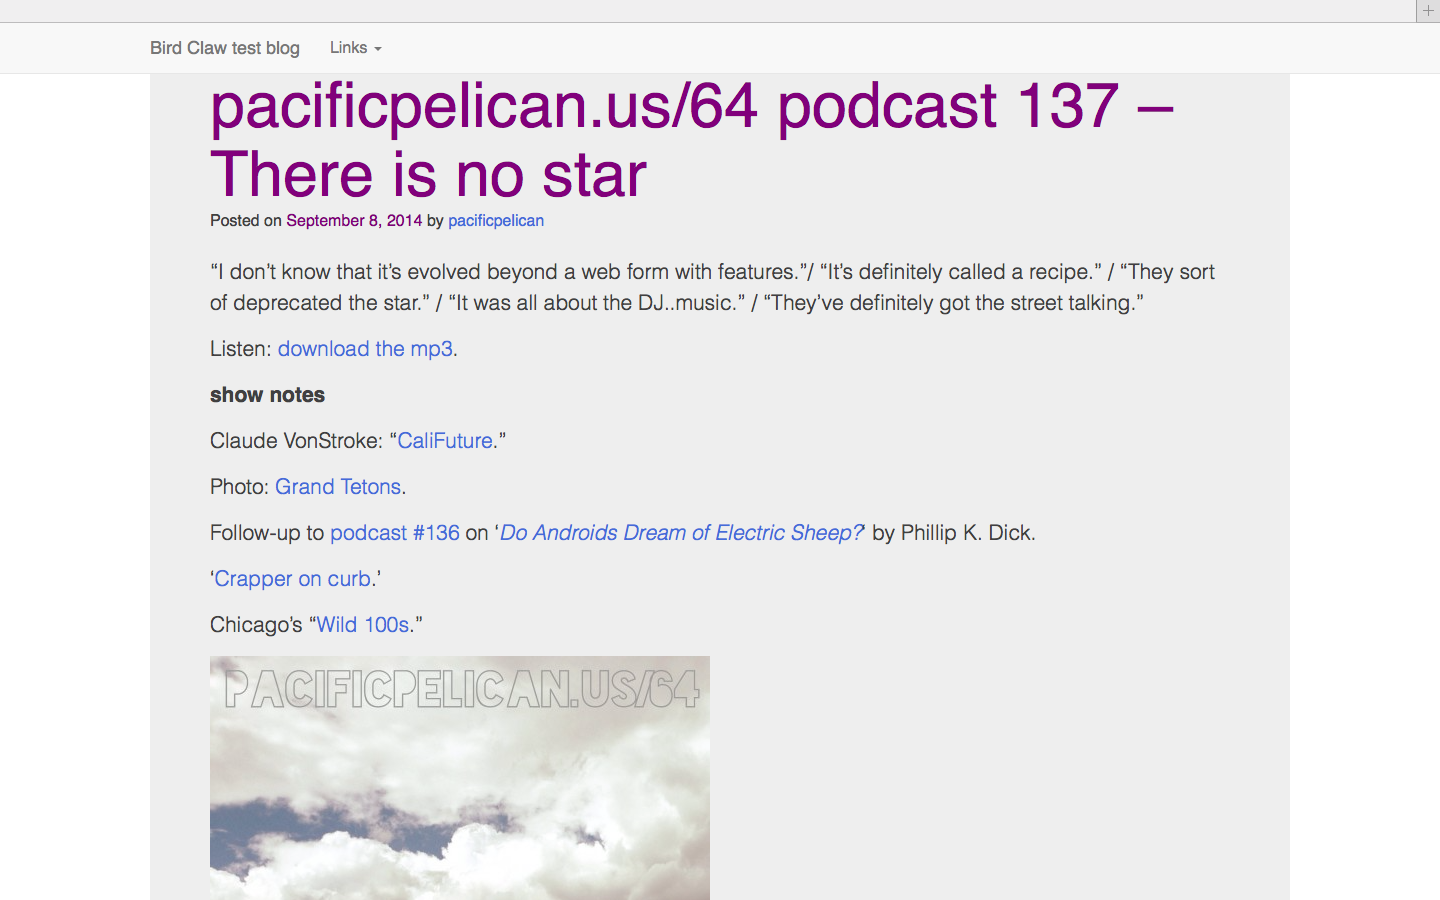
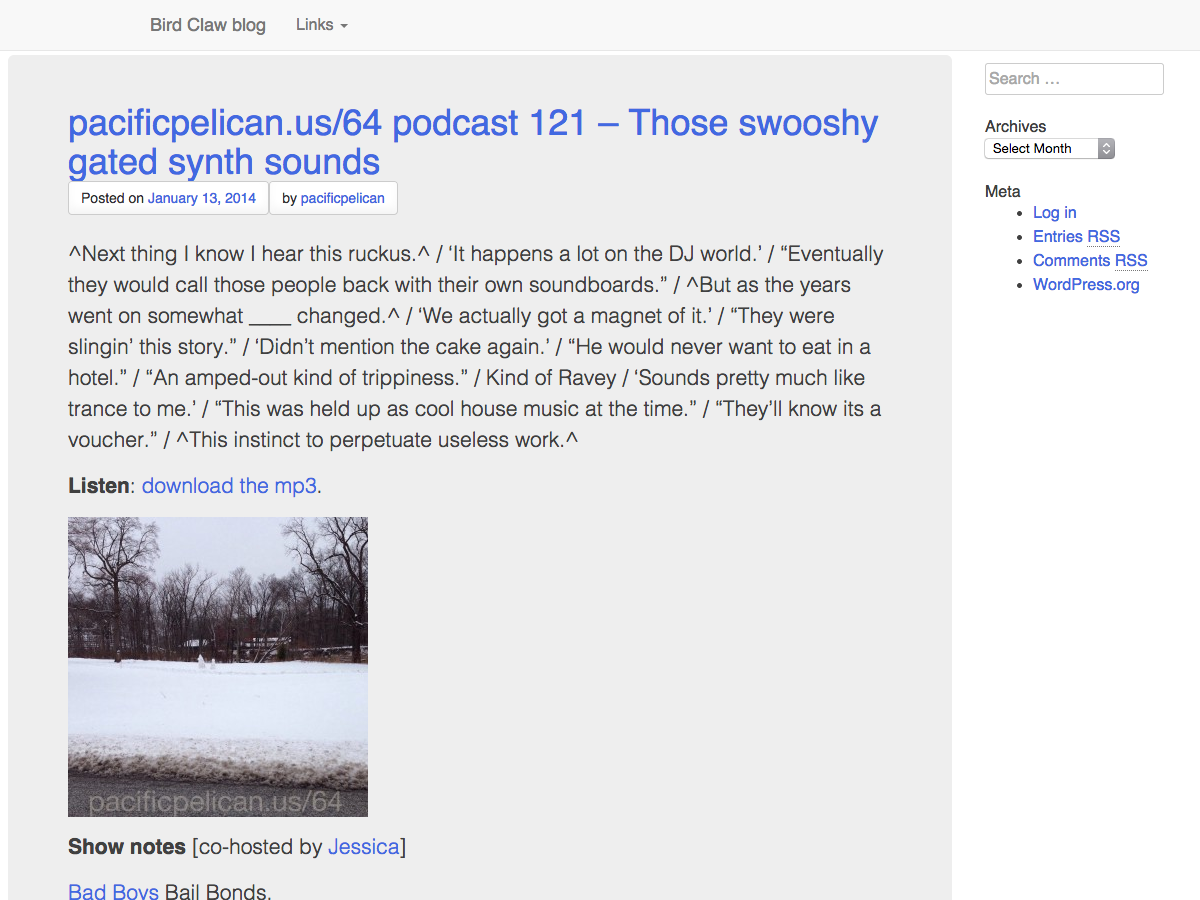
updated screenshot & bug fixes
new esc_url function used to get blog location

diff --git a/style.css b/style.css
@@ -4,7 +4,7 @@ Theme URI: http://pacificpelican.us/hallerlaketheme/
 Author: Daniel J. McKeown
 Author URI: http://djmcloud.com/
 Description: The 2014 WP theme from LoveBirdsConsulting.com
-Version: 0.5.5
+Version: 0.5.6
 License: GNU General Public License version 2 (or later)
 License URI: http://www.gnu.org/licenses/gpl-2.0.html
 Text Domain: haller_lake_s

diff --git a/header.php b/header.php
@@ -20,12 +20,12 @@
     <link rel="icon" href="../../../favicon.ico">
 
     <!-- Bootstrap core CSS -->
-    <link rel="stylesheet" href="<?php bloginfo('template_directory'); ?>/css/bootstrap.min.css" type="text/css" media="all" />
+    <link rel="stylesheet" href="<?php echo esc_url( get_template_directory_uri(); ?>/css/bootstrap.min.css" type="text/css" media="all" />
 
     <!-- Custom styles for this template -->
 
     
-       <link rel="stylesheet" href="<?php bloginfo('template_directory'); ?>/css/navbar-fixed-top.css" type="text/css" media="all" />
+       <link rel="stylesheet" href="<?php echo esc_url( get_template_directory_uri(); ?>/css/navbar-fixed-top.css" type="text/css" media="all" />
 
     <!-- Just for debugging purposes. Don't actually copy these 2 lines! -->
     <!--[if lt IE 9]><script src="../../assets/js/ie8-responsive-file-warning.js"></script><![endif]-->

diff --git a/404.php b/404.php
@@ -100,11 +100,11 @@ get_header(); ?>
   <!-- Bootstrap core JavaScript
     ================================================== -->
     <!-- Placed at the end of the document so the pages load faster -->
-    <script src="<?php bloginfo('template_directory'); ?>/js/jquery.min.js"></script>
+    <script src="<?php esc_url( get_template_directory_uri(); ?>/js/jquery.min.js"></script>
 
-    <script src="<?php bloginfo('template_directory'); ?>/js/bootstrap.min.js"></script>
+    <script src="<?php esc_url( get_template_directory_uri(); ?>/js/bootstrap.min.js"></script>
     <!-- IE10 viewport hack for Surface/desktop Windows 8 bug -->
-    <script src="<?php bloginfo('template_directory'); ?>/js/ie10-viewport-bug-workaround.js"></script>
+    <script src="<?php esc_url( get_template_directory_uri(); ?>/js/ie10-viewport-bug-workaround.js"></script>
 
 </body>
 </html>

diff --git a/index.php b/index.php
@@ -112,11 +112,11 @@ get_header(); ?>
   <!-- Bootstrap core JavaScript
     ================================================== -->
     <!-- Placed at the end of the document so the pages load faster -->
-    <script src="<?php bloginfo('template_directory'); ?>/js/jquery.min.js"></script>
+    <script src="<?php esc_url( get_template_directory_uri(); ?>/js/jquery.min.js"></script>
 
-    <script src="<?php bloginfo('template_directory'); ?>/js/bootstrap.min.js"></script>
+    <script src="<?php esc_url( get_template_directory_uri(); ?>/js/bootstrap.min.js"></script>
     <!-- IE10 viewport hack for Surface/desktop Windows 8 bug -->
-    <script src="<?php bloginfo('template_directory'); ?>/js/ie10-viewport-bug-workaround.js"></script>
+    <script src="<?php esc_url( get_template_directory_uri(); ?>/js/ie10-viewport-bug-workaround.js"></script>
 
 </body>
 </html>

diff --git a/changelog.md b/changelog.md
@@ -77,3 +77,7 @@ http://djmcloud.danieljmckeown.com/hallerlaketheme
 0.5.5 Jan. 18, 2015
 -code cleanup (body and html tags closed)
 -404 page improved
+
+0.5.6 Jan. 20, 2015
+-new updated screenshot
+-changed to esc_url( get_template_directory_uri() to get template location
